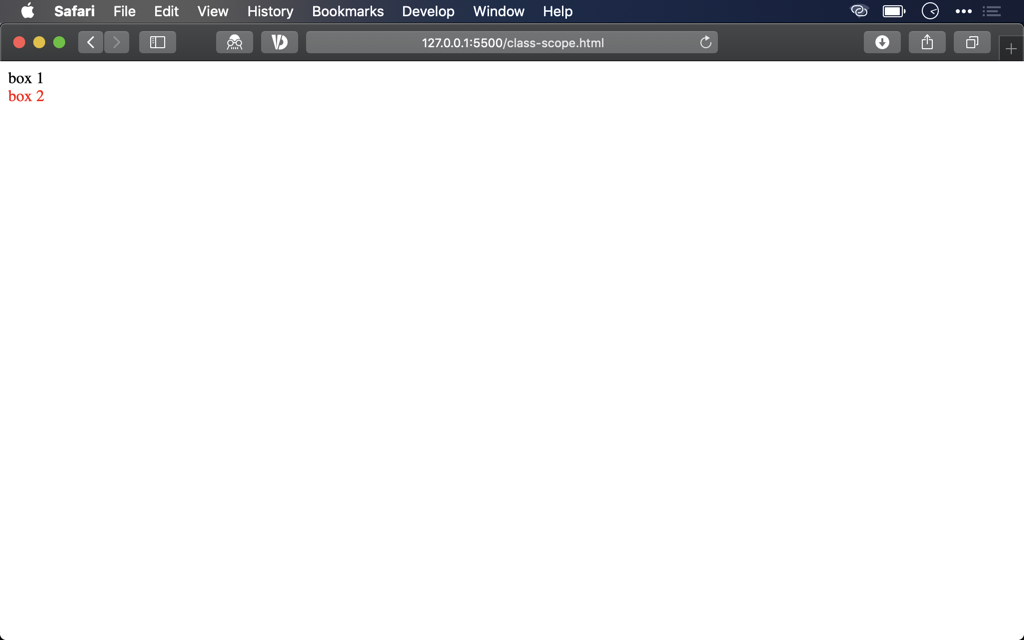
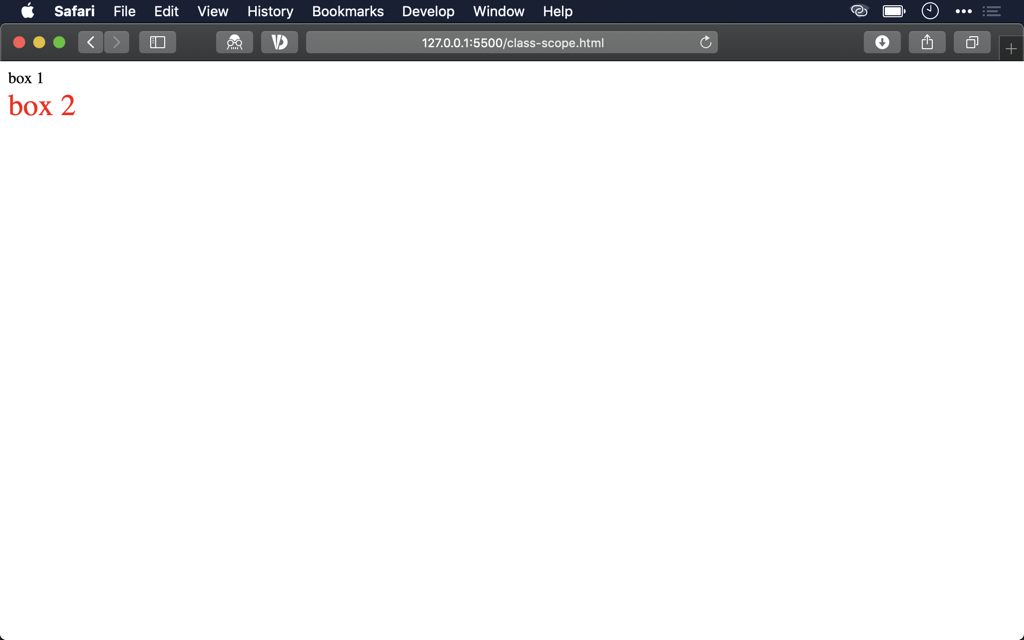
使用 Empty Class 建立 Selector Scope

Changed region(s): [[0.0, 0.0, 0.375, 0.0625], [0.0, 0.125, 0.0938, 0.1875]]

diff --git a/source/_posts/css/class-scope.md b/source/_posts/css/class-scope.md
@@ -18,10 +18,11 @@ CSS 3
 <!DOCTYPE html>
 <head>
   <meta charset="UTF-8">
-  <title>Document</title>
+  <title>Class Scope</title>
   <style>
     .box {
-      color: #f00;
+      font-size: 30px;
+      color: #ff0000;
     }
   </style>
 </head>
@@ -42,10 +43,11 @@ CSS 3
 <!DOCTYPE html>
 <head>
   <meta charset="UTF-8">
-  <title>Document</title>
+  <title>Class Scope</title>
   <style>
     .post .box {
-      color: #f00;
+      font-size: 30px;
+      color: #ff0000;
     }
   </style>
 </head>
@@ -66,7 +68,7 @@ CSS 3
 </div>
 ```
 
-實務上會在要選擇的 `<div>` 外面再加上一層 `<div>`，並加上一個新的 class。
+實務上會在要選擇的 `<div>` 外面再加上一層 `<div>`，並加上一個新的 class，但不描述任何 property。
 
 第 6 行
 
@@ -76,12 +78,10 @@ CSS 3
 }
 ```
 
-如此就可使用 descendant selector 同時選取 `.post` 與 `.box` 兩個 class，這樣只會選到 `box 2`，類似替 CSS selector 創建了 scope。
-
+如此就可使用 descendant combinator 同時選取 `.post` 與 `.box` 兩個 class，這樣只會選到 `box 2`，類似替 CSS selector 創建了 scope。
 
 ![class000](/images/css/class-scope/class000.png)
 
 ## Conclusion
 
-* CSS 的 class 並不止用在設定 property，也可以使用 empty class 建立出 scope，方便 CSS selector 選擇到我們要的 element
-
+* CSS 的 class 並不只用在設定 property，也可以使用 empty class 建立出 scope，方便 CSS selector 選擇到我們要的 element
